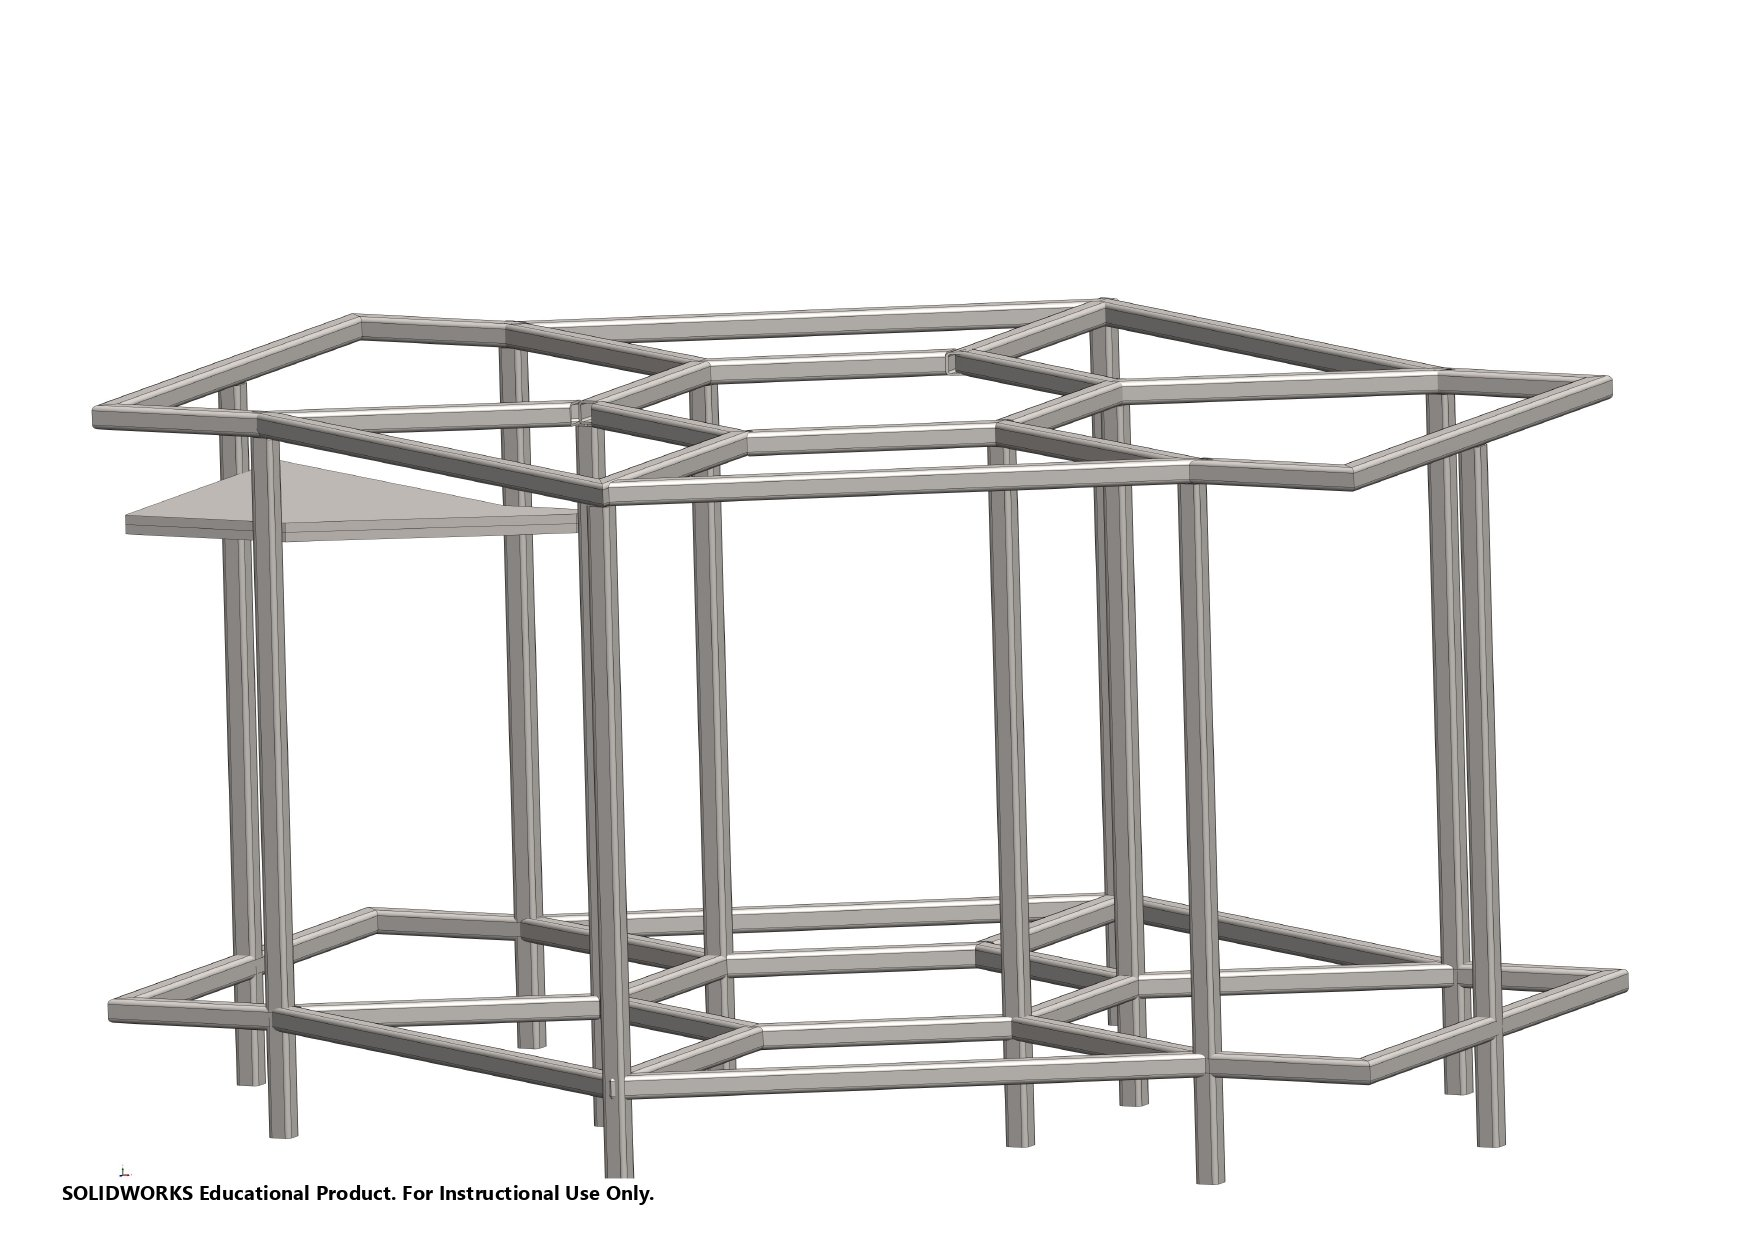
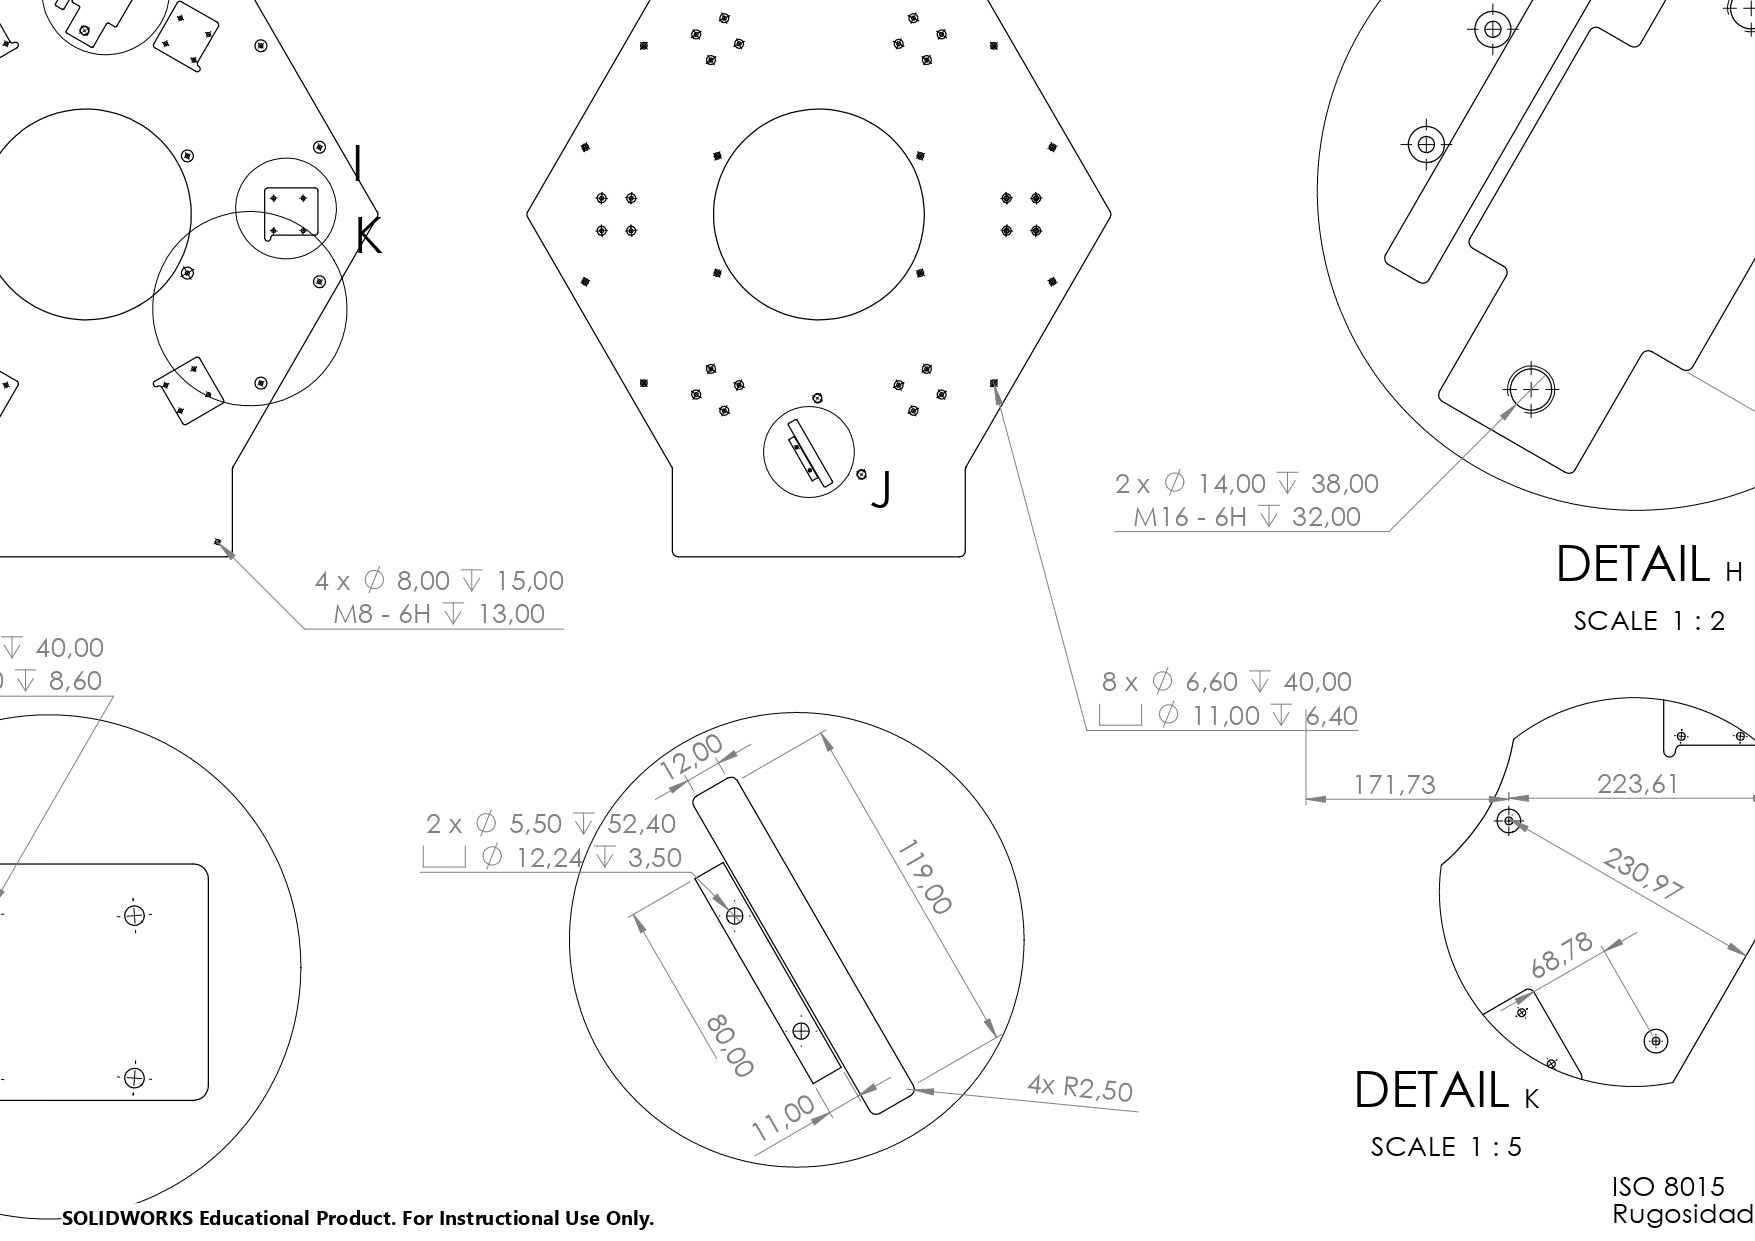
Images

diff --git a/index.html b/index.html
@@ -23,7 +23,7 @@
 				<div class="inner">
 					<h1><strong>Servus!</strong></h1>
 					<a href="#" class="image avatar"><img src="images/avatar.jpeg" alt="Luís Justo" /></a>
-					<h1><strong>Luís Justo</strong><br />
+					<h1><strong>Luís Justo</strong>, 31 years old<br />
 					Mechanical Engineer <br />
 					Munich, Germany</h1>
 				</div>
@@ -190,7 +190,7 @@
 									<h3>Linear drive – gearbox, shaft and universal joint</h3>
 								</article>
 								<article class="col-6 col-12-xsmall work-item">
-									<a href="images/fulls/tire-02.jpg" class="image fit thumb"><img src="images/thumbs/tire-02.jpg" alt="Support structure" /></a>
+									<a href="images/fulls/tire-02.jpg" class="image fit thumb"><img src="images/thumbs/tire-02.jpg" alt="Technical Drawing" /></a>
 									<h3>Support structure</h3>
 								</article>
 								<article class="col-6 col-12-xsmall work-item">
